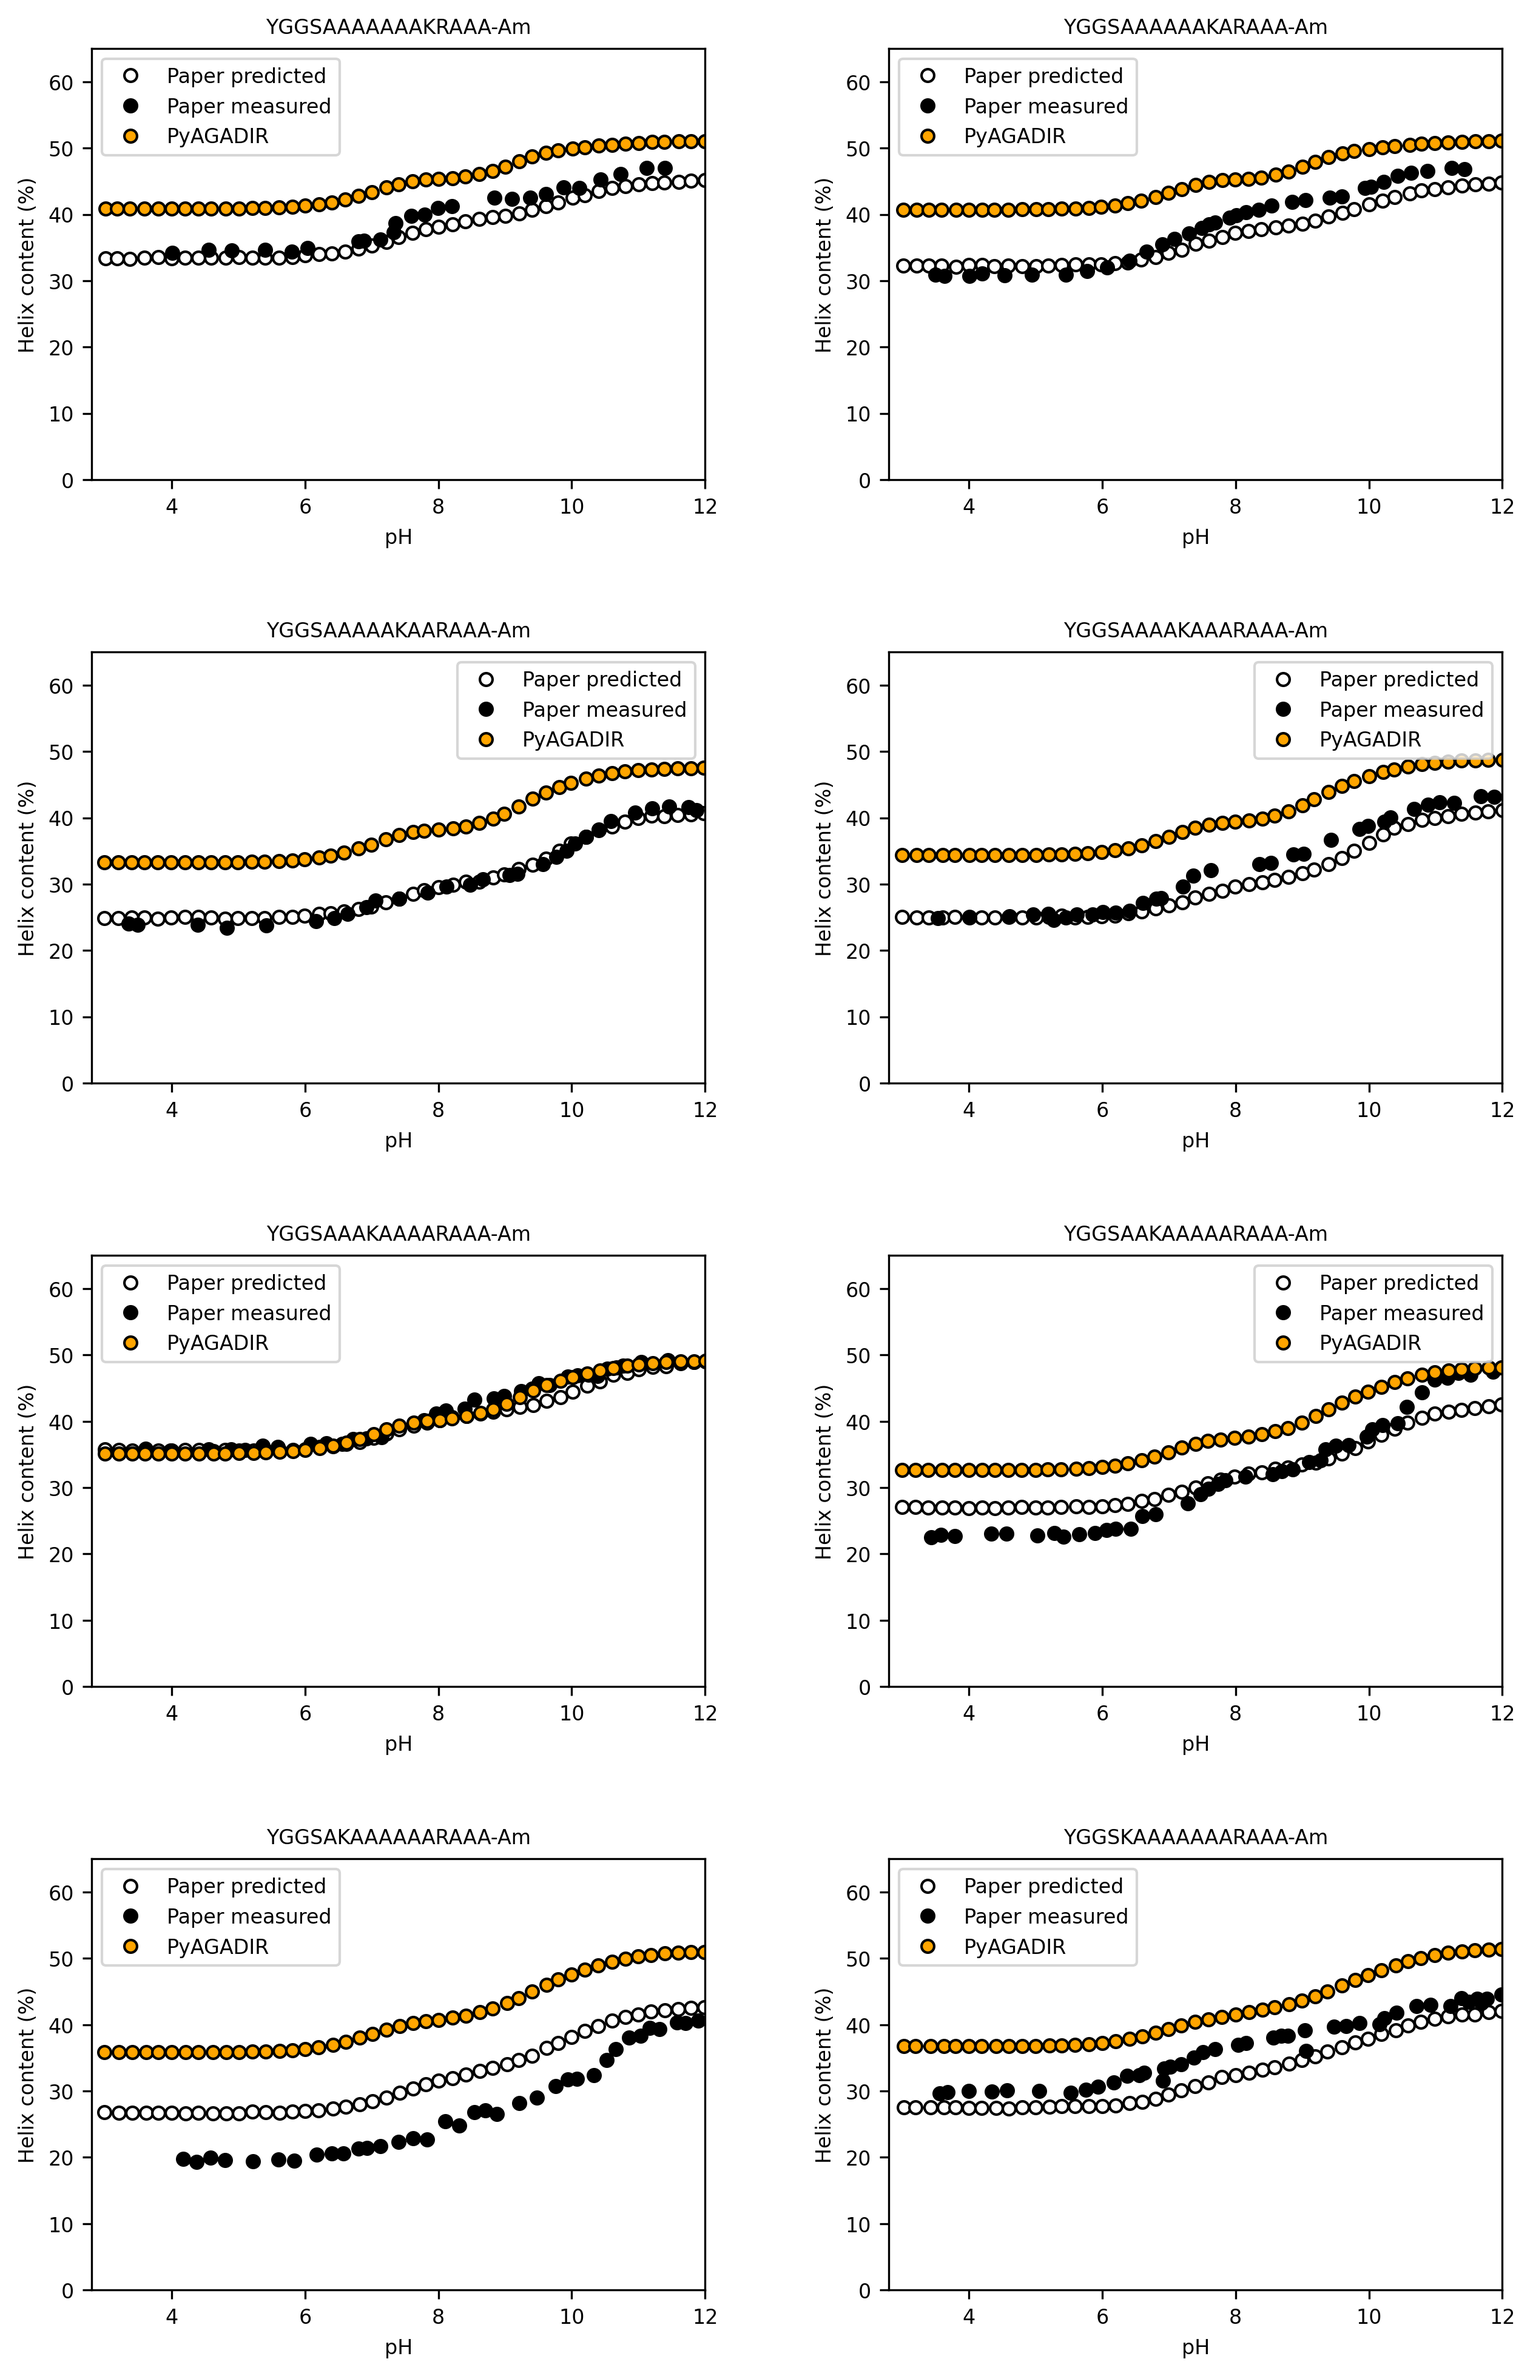
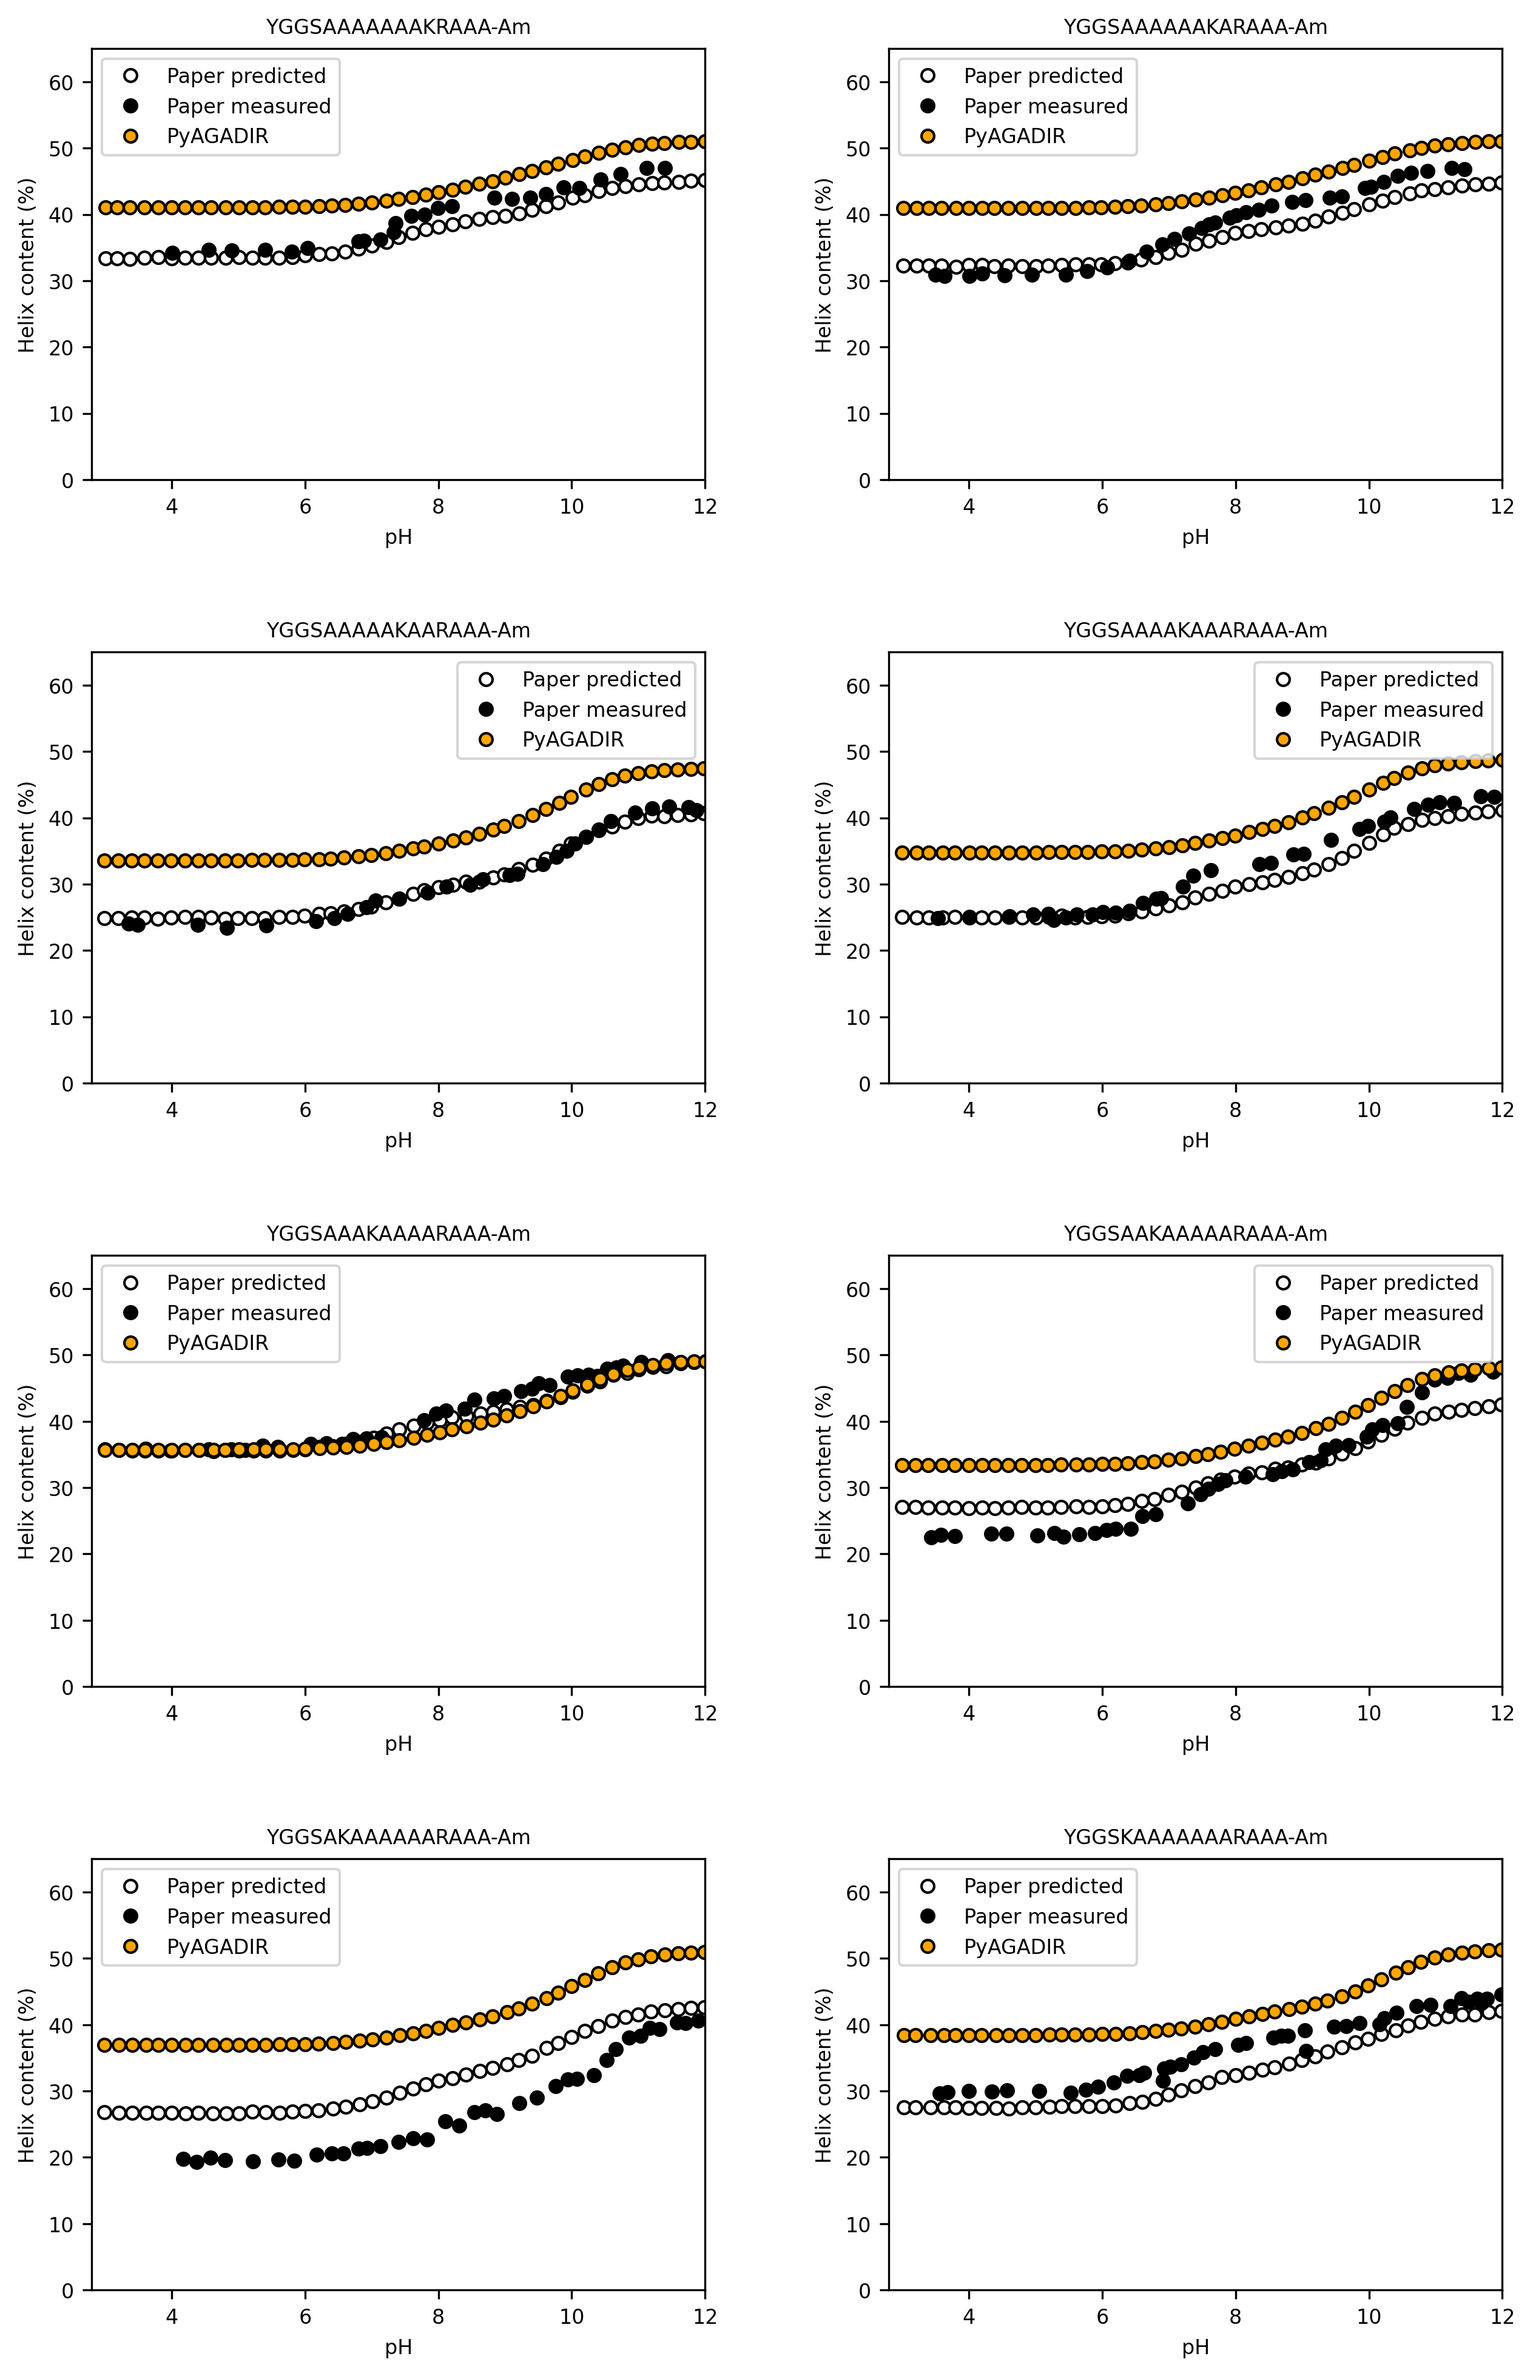
remove terminal-sidechain interactions if the terminal is not immediately at the helix end

diff --git a/pyagadir/energies.py b/pyagadir/energies.py
@@ -987,6 +987,19 @@ class EnergyCalculator(PrecomputeParams):
         
         return dG_ref + cp_term
 
+    def _nterm_is_local(self) -> bool:
+        """
+        Check if the N-terminal is local to the helix.
+        """
+        # N-terminus is at index 0; helix starts at ncap_idx
+        return self.ncap_idx <= 1   # helix starts at 0 (terminal in helix) or 1 (terminal is N')
+
+    def _cterm_is_local(self) -> bool:
+        """
+        Check if the C-terminal is local to the helix.
+        """
+        # C-terminus is at index len-1; helix ends at ccap_idx
+        return self.ccap_idx >= (len(self.seq_list) - 2)  # helix ends at last or second-last (terminal is C')
 
     def get_dG_Int(self) -> np.ndarray:
         """
@@ -1425,11 +1438,21 @@ class EnergyCalculator(PrecomputeParams):
             N-terminal and C-terminal interactions respectively. The energy is added
             to the charged sidechain residue.
         """
-        energy_N = np.zeros(len(self.seq_list))
-        energy_C = np.zeros(len(self.seq_list))
+        n = len(self.seq_list)
+        energy_N = np.zeros(n, dtype=float)
+        energy_C = np.zeros(n, dtype=float)
         
-        # Skip if terminals are uncharged
-        if self.seq_list[0] == 'Ac' and self.seq_list[-1] == "Am":
+        # Presence (Ac/Am remove terminal charges in this model)
+        nterm_present = not (n > 0 and self.seq_list[0] == "Ac")
+        cterm_present = not (n > 0 and self.seq_list[-1] == "Am")
+
+        # Locality gate (AGADIR/Lacroix-style): only include terminal-sidechain terms
+        # when the terminal is in-helix or is the immediate neighbor (N' / C').
+        nterm_local = (self.ncap_idx <= 1)
+        cterm_local = (self.ccap_idx >= (n - 2))
+
+        # If neither terminal can contribute, bail early
+        if not (nterm_present and nterm_local) and not (cterm_present and cterm_local):
             return energy_N, energy_C
         
         # Iterate through sequence checking for charged sidechains
@@ -1437,42 +1460,50 @@ class EnergyCalculator(PrecomputeParams):
             if AA1 not in self.neg_charge_aa + self.pos_charge_aa:
                 continue
                 
-            # --- N-Terminal Interaction ---
-            # 1. Helix State
-            q1_hel = self.modified_nterm_ionization_hel
-            q2_hel = self.modified_seq_ionization_hel[idx]
-            dist_hel = self.terminal_sidechain_distances_nterm[idx]
-            G_hel = self._electrostatic_interaction_energy(qi=q1_hel, qj=q2_hel, r=dist_hel, factor_pi=3.0)
+            # --- N-Terminal Interaction (only if local/present) ---
+            if nterm_present and nterm_local:
+                q1_hel = float(self.modified_nterm_ionization_hel)
+                q2_hel = float(self.modified_seq_ionization_hel[idx])
+                dist_hel = float(self.terminal_sidechain_distances_nterm[idx])
+                if np.isnan(dist_hel):
+                    dist_hel = 99.0
+                G_hel = (
+                    self._electrostatic_interaction_energy(qi=q1_hel, qj=q2_hel, r=dist_hel, factor_pi=3.0)
+                    if dist_hel < 40.0 else 0.0
+                )
 
-            # 2. Random Coil State
-            q1_rc = self.modified_nterm_ionization_rc
-            q2_rc = self.modified_seq_ionization_rc[idx]
-            # RC distance approx: linear separation from N-term (-1) to idx
-            # separation = idx - (-1) = idx + 1
-            dist_rc = self._calculate_r(abs(idx + 1)) 
-            G_rc = self._electrostatic_interaction_energy(qi=q1_rc, qj=q2_rc, r=dist_rc, factor_pi=3.0)
+                q1_rc = float(self.modified_nterm_ionization_rc)
+                q2_rc = float(self.modified_seq_ionization_rc[idx])
+                # RC distance: N = idx residues between N-terminus and residue idx
+                dist_rc = float(self._calculate_r(idx))
+                G_rc = (
+                    self._electrostatic_interaction_energy(qi=q1_rc, qj=q2_rc, r=dist_rc, factor_pi=3.0)
+                    if dist_rc < 40.0 else 0.0
+                )
 
-            # 3. Delta G
-            energy_N[idx] = G_hel - G_rc
+                energy_N[idx] = G_hel - G_rc
 
+            # --- C-Terminal Interaction (only if local/present) ---
+            if cterm_present and cterm_local:
+                q1_hel = float(self.modified_cterm_ionization_hel)
+                q2_hel = float(self.modified_seq_ionization_hel[idx])
+                dist_hel = float(self.terminal_sidechain_distances_cterm[idx])
+                if np.isnan(dist_hel):
+                    dist_hel = 99.0
+                G_hel = (
+                    self._electrostatic_interaction_energy(qi=q1_hel, qj=q2_hel, r=dist_hel, factor_pi=3.0)
+                    if dist_hel < 40.0 else 0.0
+                )
 
-            # --- C-Terminal Interaction ---
-            # 1. Helix State
-            q1_hel = self.modified_cterm_ionization_hel
-            q2_hel = self.modified_seq_ionization_hel[idx]
-            dist_hel = self.terminal_sidechain_distances_cterm[idx]
-            G_hel = self._electrostatic_interaction_energy(qi=q1_hel, qj=q2_hel, r=dist_hel, factor_pi=3.0)
-
-            # 2. Random Coil State
-            q1_rc = self.modified_cterm_ionization_rc
-            q2_rc = self.modified_seq_ionization_rc[idx]
-            # RC distance approx: linear separation from idx to C-term (len)
-            # separation = len - idx
-            dist_rc = self._calculate_r(abs(len(self.seq_list) - idx))
-            G_rc = self._electrostatic_interaction_energy(qi=q1_rc, qj=q2_rc, r=dist_rc, factor_pi=3.0)
-
-            # 3. Delta G
-            energy_C[idx] = G_hel - G_rc
+                q1_rc = float(self.modified_cterm_ionization_rc)
+                q2_rc = float(self.modified_seq_ionization_rc[idx])
+                # RC distance: N = (n-1-idx) residues between residue idx and C-terminus
+                dist_rc = float(self._calculate_r((n - 1) - idx))
+                G_rc = (
+                    self._electrostatic_interaction_energy(qi=q1_rc, qj=q2_rc, r=dist_rc, factor_pi=3.0)
+                    if dist_rc < 40.0 else 0.0
+                )
+                energy_C[idx] = G_hel - G_rc
 
         return energy_N, energy_C
 
